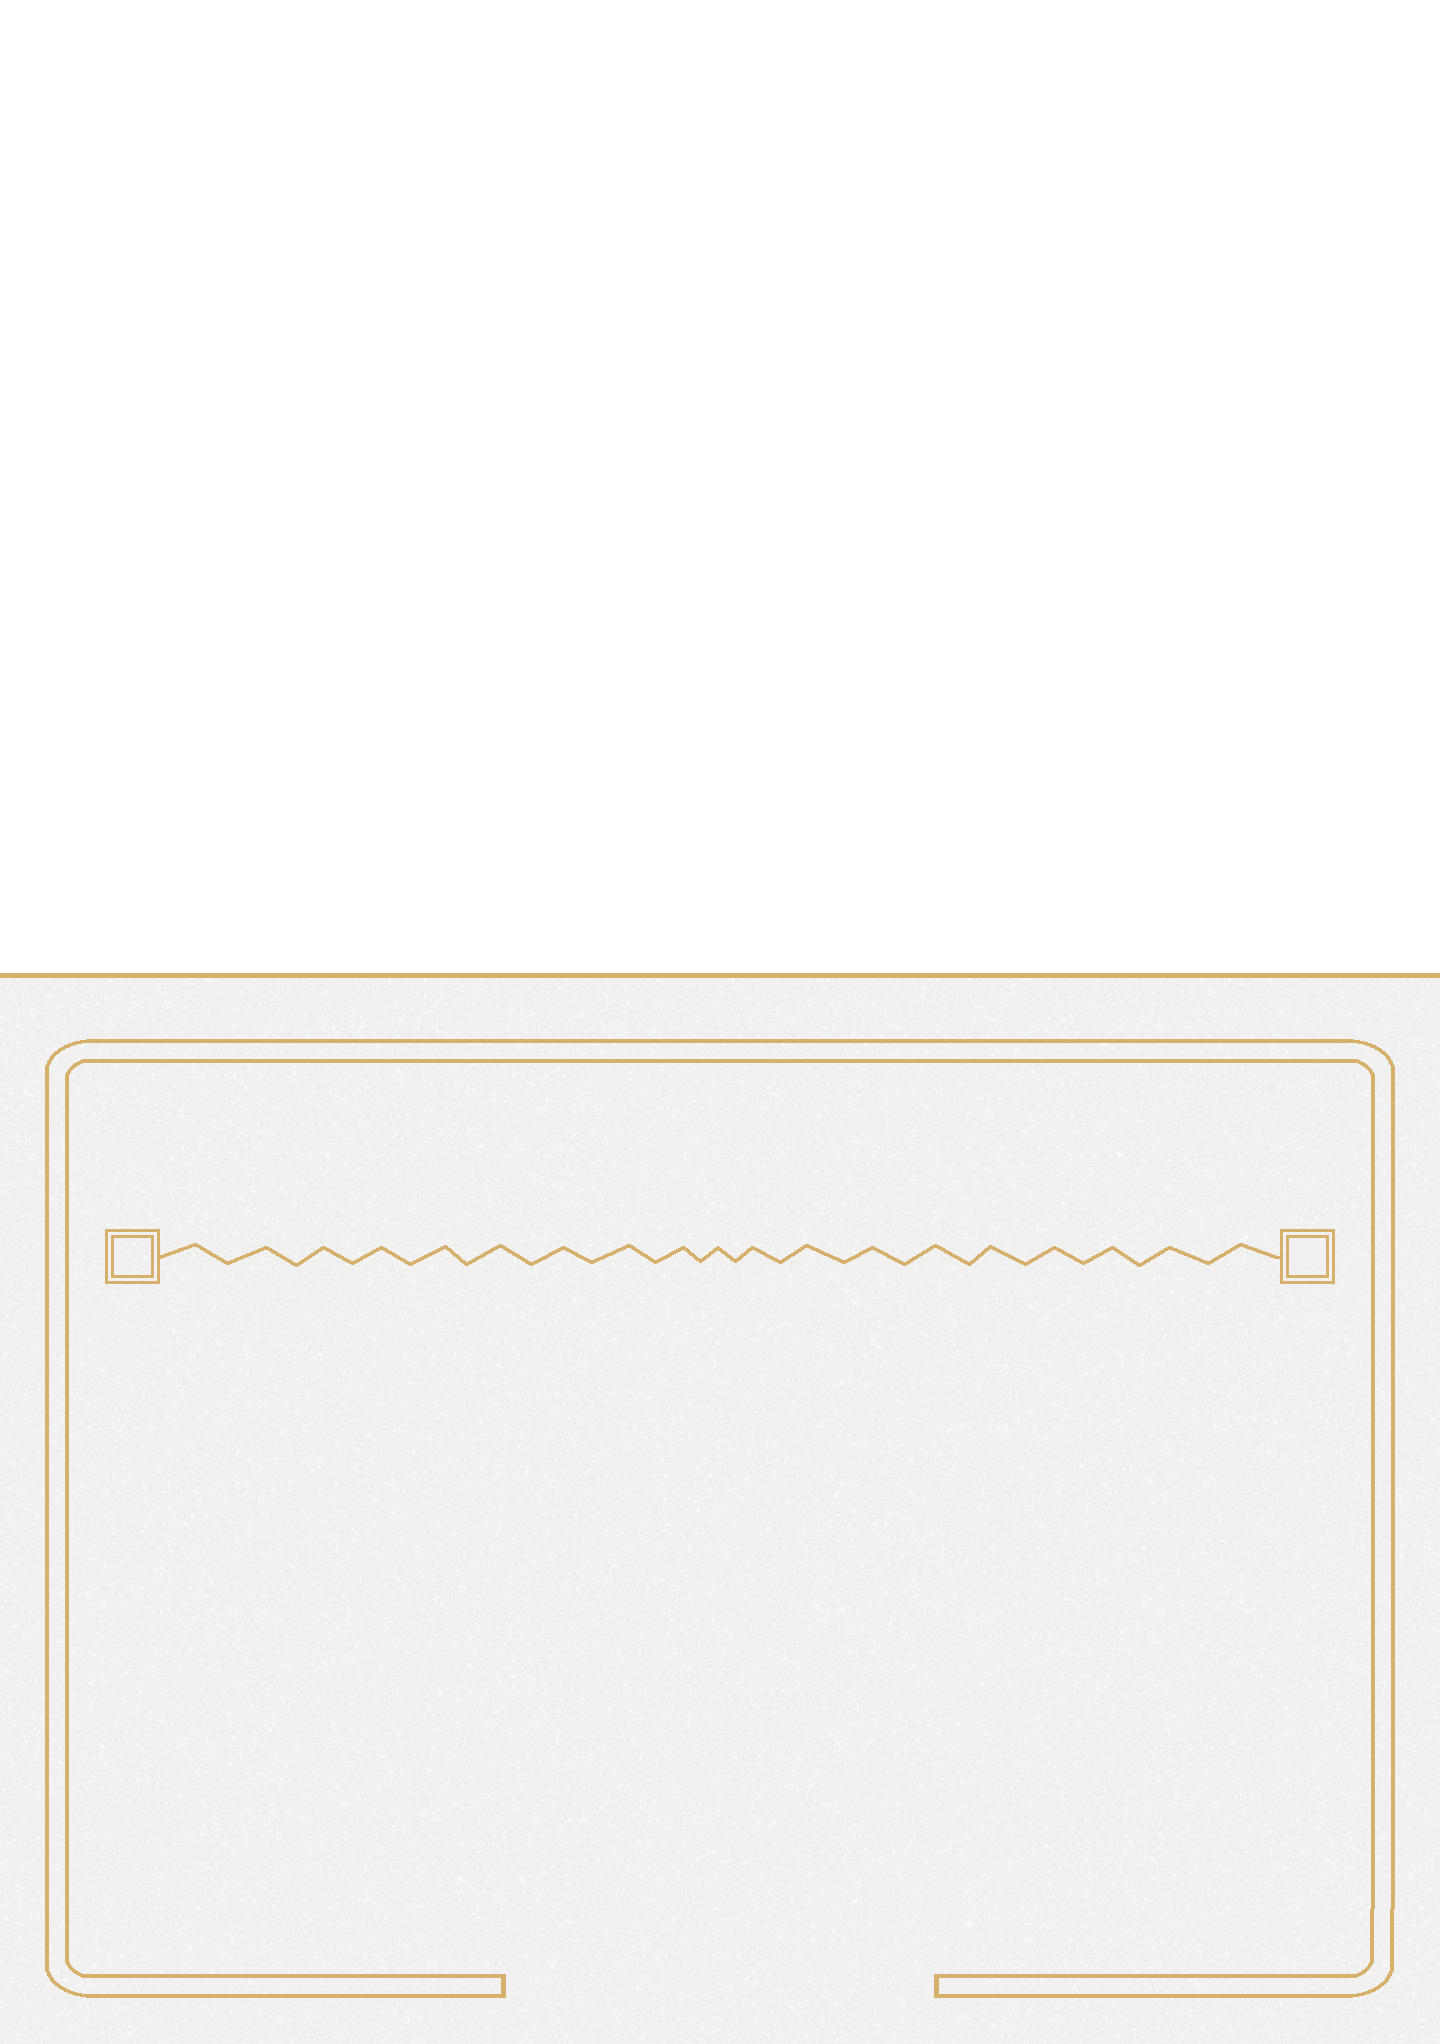
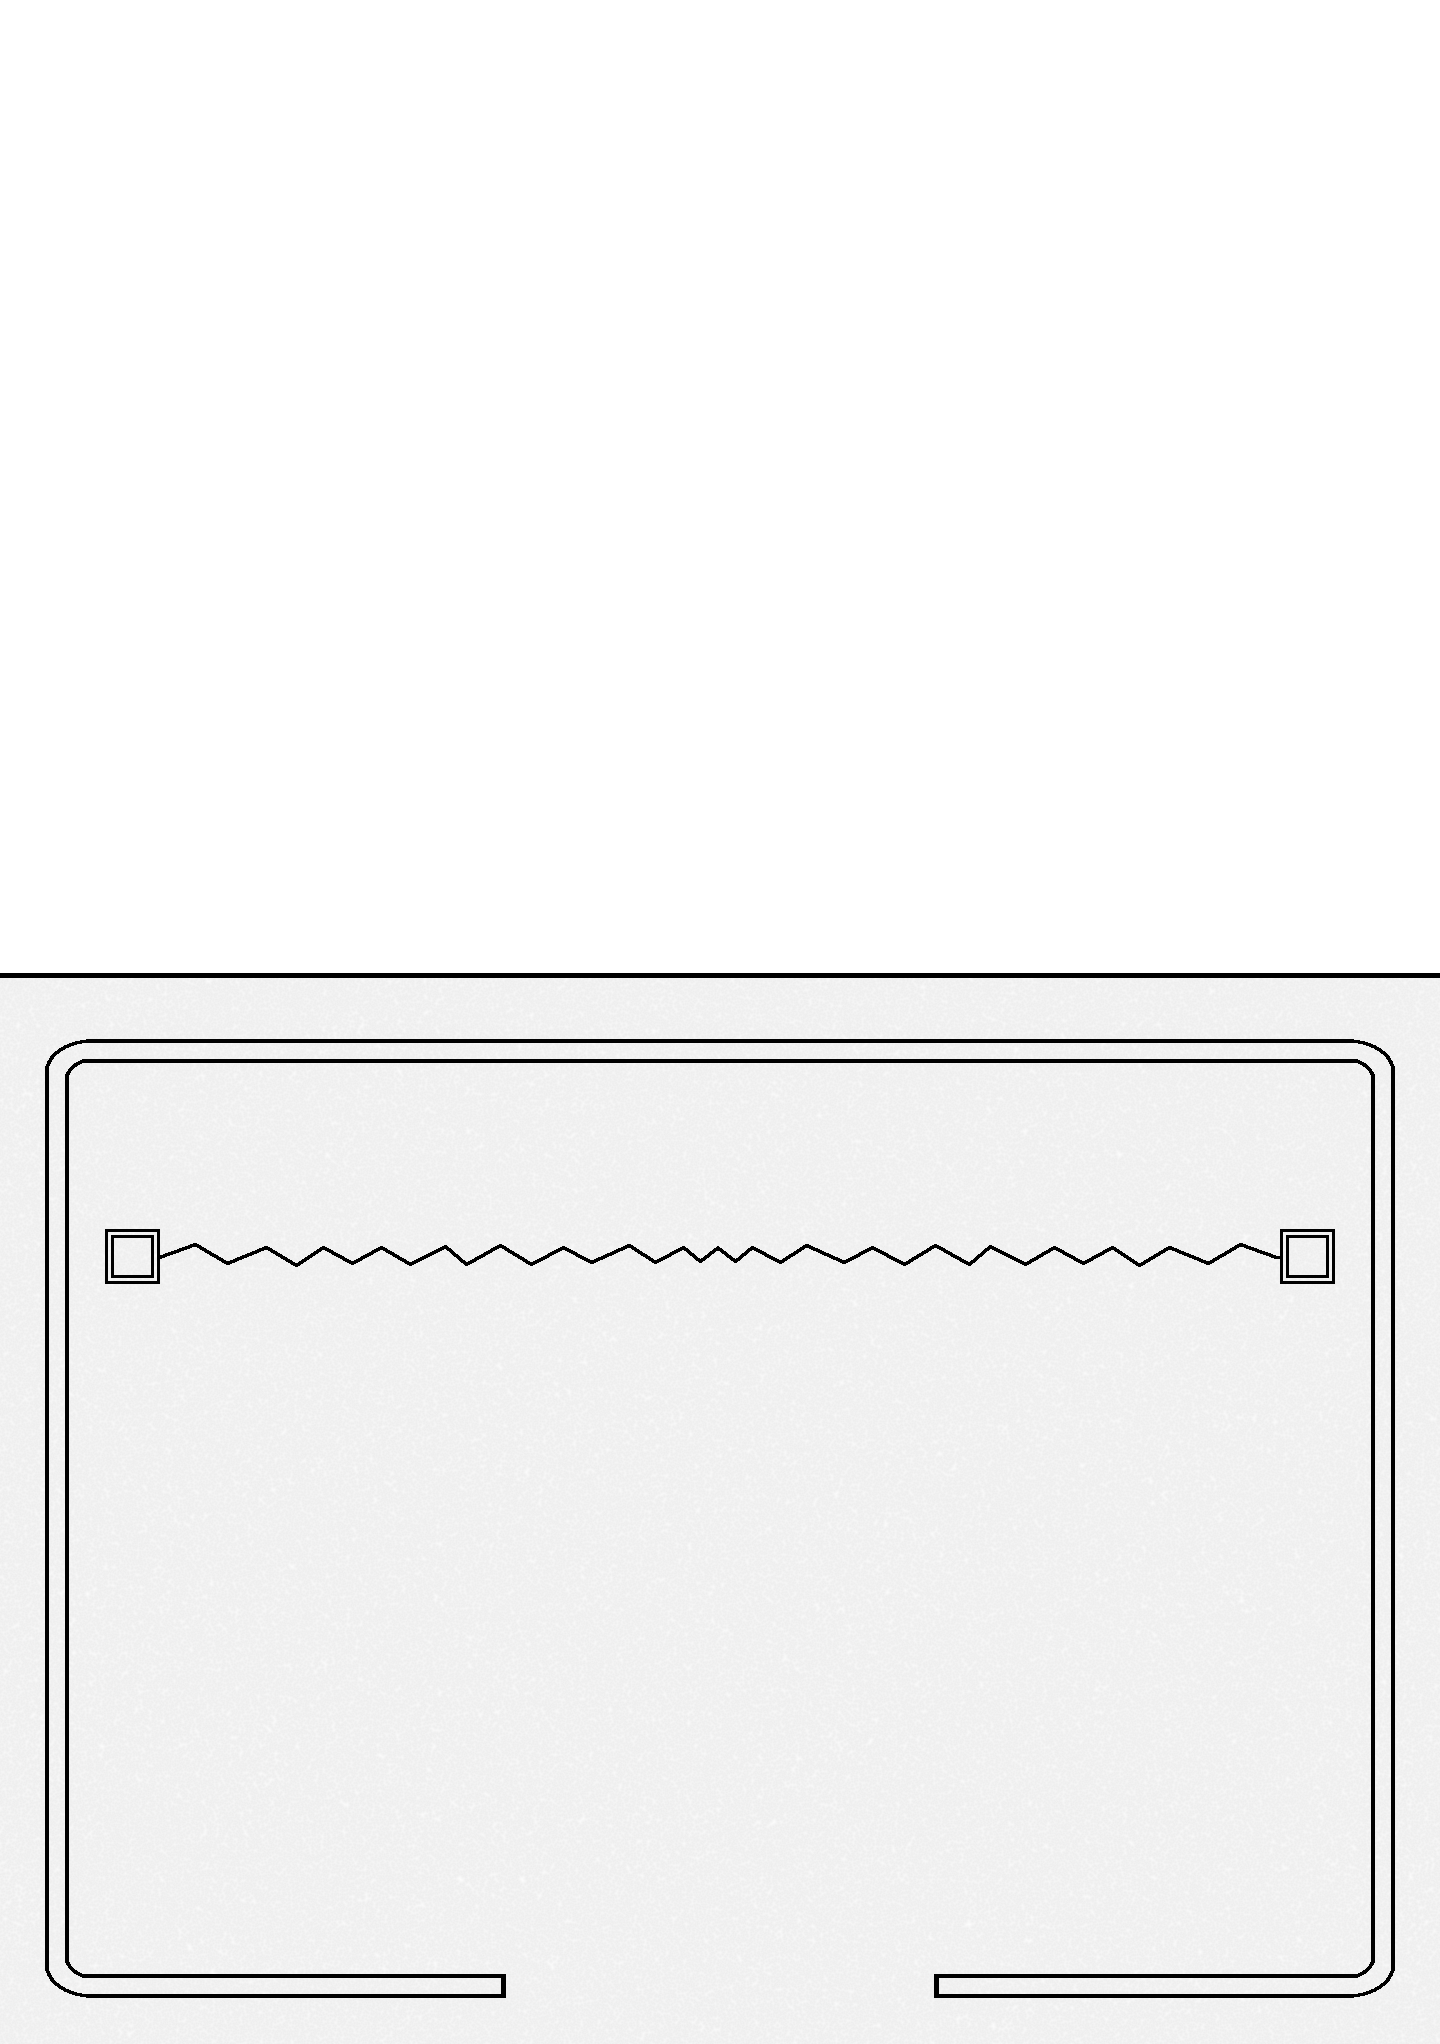
Changed Fate font and ornament colors to black

Changed region(s): [[0.0312, 0.4932, 0.9688, 0.9863]]

diff --git a/Program.cs b/Program.cs
@@ -20,6 +20,7 @@ class Program
         
         // Setup variables
         Color textColor = ColorTranslator.FromHtml("#" + ValueFetching.GetConfigValue("color", "fontColor"));
+        Color fateTextColor = ColorTranslator.FromHtml("#" + ValueFetching.GetConfigValue("color", "fateFontColor"));
         int titleAreaMaxWidth = ValueFetching.GetSettingsValue("Card", "titleMaxWidth") == "" ?
             int.Parse(ValueFetching.GetConfigValue("card", "textAreaMaxWidth")) :
             int.Parse(ValueFetching.GetSettingsValue("Card", "titleMaxWidth"));
@@ -103,13 +104,14 @@ class Program
                     // Skip cards that do not have all the necessary elements
                     if (!skipCard && title != "" && (ability != "" || activateAbility != "" || activateCost != "" || gainsAction != "") && type != "")
                     {
-                        DrawTitle(title, titleFont, textColor, titleAreaMaxWidth, titleAreaMaxHeight);
-                        DrawAbility(ability, activateAbility, activateCost, gainsAction, abilityFont, textColor, abilityAreaMaxWidth, abilityAreaMaxHeight, keywordsAndColors);
-                        DrawType(type, typeFont, textColor, typeAreaMaxWidth, typeAreaMaxHeight, keywordsAndColors);
-                        if (cost != "") DrawCornerElement(cost, costFont, textColor, "Cost", cornerElementMaxWidth, cornerElementMaxHeight);
-                        if (strength != "") DrawCornerElement(strength, strengthFont, textColor, "Strength", cornerElementMaxWidth, cornerElementMaxHeight);
-                        if (topRight != "") DrawCornerElement(topRight, topRightFont, textColor, "TopRight", cornerElementMaxWidth, cornerElementMaxHeight);
-                        if (bottomRight != "") DrawCornerElement(bottomRight, bottomRightFont, textColor, "BottomRight", cornerElementMaxWidth, cornerElementMaxHeight);
+                        Color fontColor = deck == "Fate" ? fateTextColor : textColor;
+                        DrawTitle(title, titleFont, fontColor, titleAreaMaxWidth, titleAreaMaxHeight);
+                        DrawAbility(ability, activateAbility, activateCost, gainsAction, abilityFont, fontColor, abilityAreaMaxWidth, abilityAreaMaxHeight, keywordsAndColors);
+                        DrawType(type, typeFont, fontColor, typeAreaMaxWidth, typeAreaMaxHeight, keywordsAndColors);
+                        if (cost != "") DrawCornerElement(cost, costFont, fontColor, "Cost", cornerElementMaxWidth, cornerElementMaxHeight);
+                        if (strength != "") DrawCornerElement(strength, strengthFont, fontColor, "Strength", cornerElementMaxWidth, cornerElementMaxHeight);
+                        if (topRight != "") DrawCornerElement(topRight, topRightFont, fontColor, "TopRight", cornerElementMaxWidth, cornerElementMaxHeight);
+                        if (bottomRight != "") DrawCornerElement(bottomRight, bottomRightFont, fontColor, "BottomRight", cornerElementMaxWidth, cornerElementMaxHeight);
                         
                         SizeCardImage(TextManipulation.CleanTitle(title));
                         CombineImages(TextManipulation.CleanTitle(title), deck);

diff --git a/CardGeneration/PrepareText.cs b/CardGeneration/PrepareText.cs
@@ -624,7 +624,7 @@ namespace ToonVil_Card_Generator.CardGeneration
 						textG.PixelOffsetMode = PixelOffsetMode.HighQuality;
 						textG.SmoothingMode = SmoothingMode.HighQuality;
 						textG.TextRenderingHint = TextRenderingHint.AntiAliasGridFit;
-						Color bgColor = Color.Black;
+						Color bgColor = Color.Chartreuse;
 						textG.Clear(bgColor);
 						TextRenderer.DrawText(textG, word.GetText(), word.GetTextFont(), new Rectangle(0, (int)((lineHeight - wordHeight) * lineSpacing / 2), (int)wordWidth + horizontalPadding, (int)wordHeight), word.GetTextColor(), bgColor, tf);
 						ImageManipulation.Mask(textB, word.GetTextColor(), bgColor);

diff --git a/CardGeneration/ImageManipulation.cs b/CardGeneration/ImageManipulation.cs
@@ -27,6 +27,8 @@ namespace ToonVil_Card_Generator.CardGeneration
 							 		 (b.GetPixel(x, y).G - backgroundColor.G) * (b.GetPixel(x, y).G - backgroundColor.G) + 
 							 		 (b.GetPixel(x, y).B - backgroundColor.B) * (b.GetPixel(x, y).B - backgroundColor.B));
 					int newA = (int)(currentDistance / totalDistance * 255);
+					if (newA > 255) newA = 255;
+					else if (newA < 0) newA = 0;
 					b.SetPixel(x, y, Color.FromArgb(newA, correctColor));
 				}
 			}
